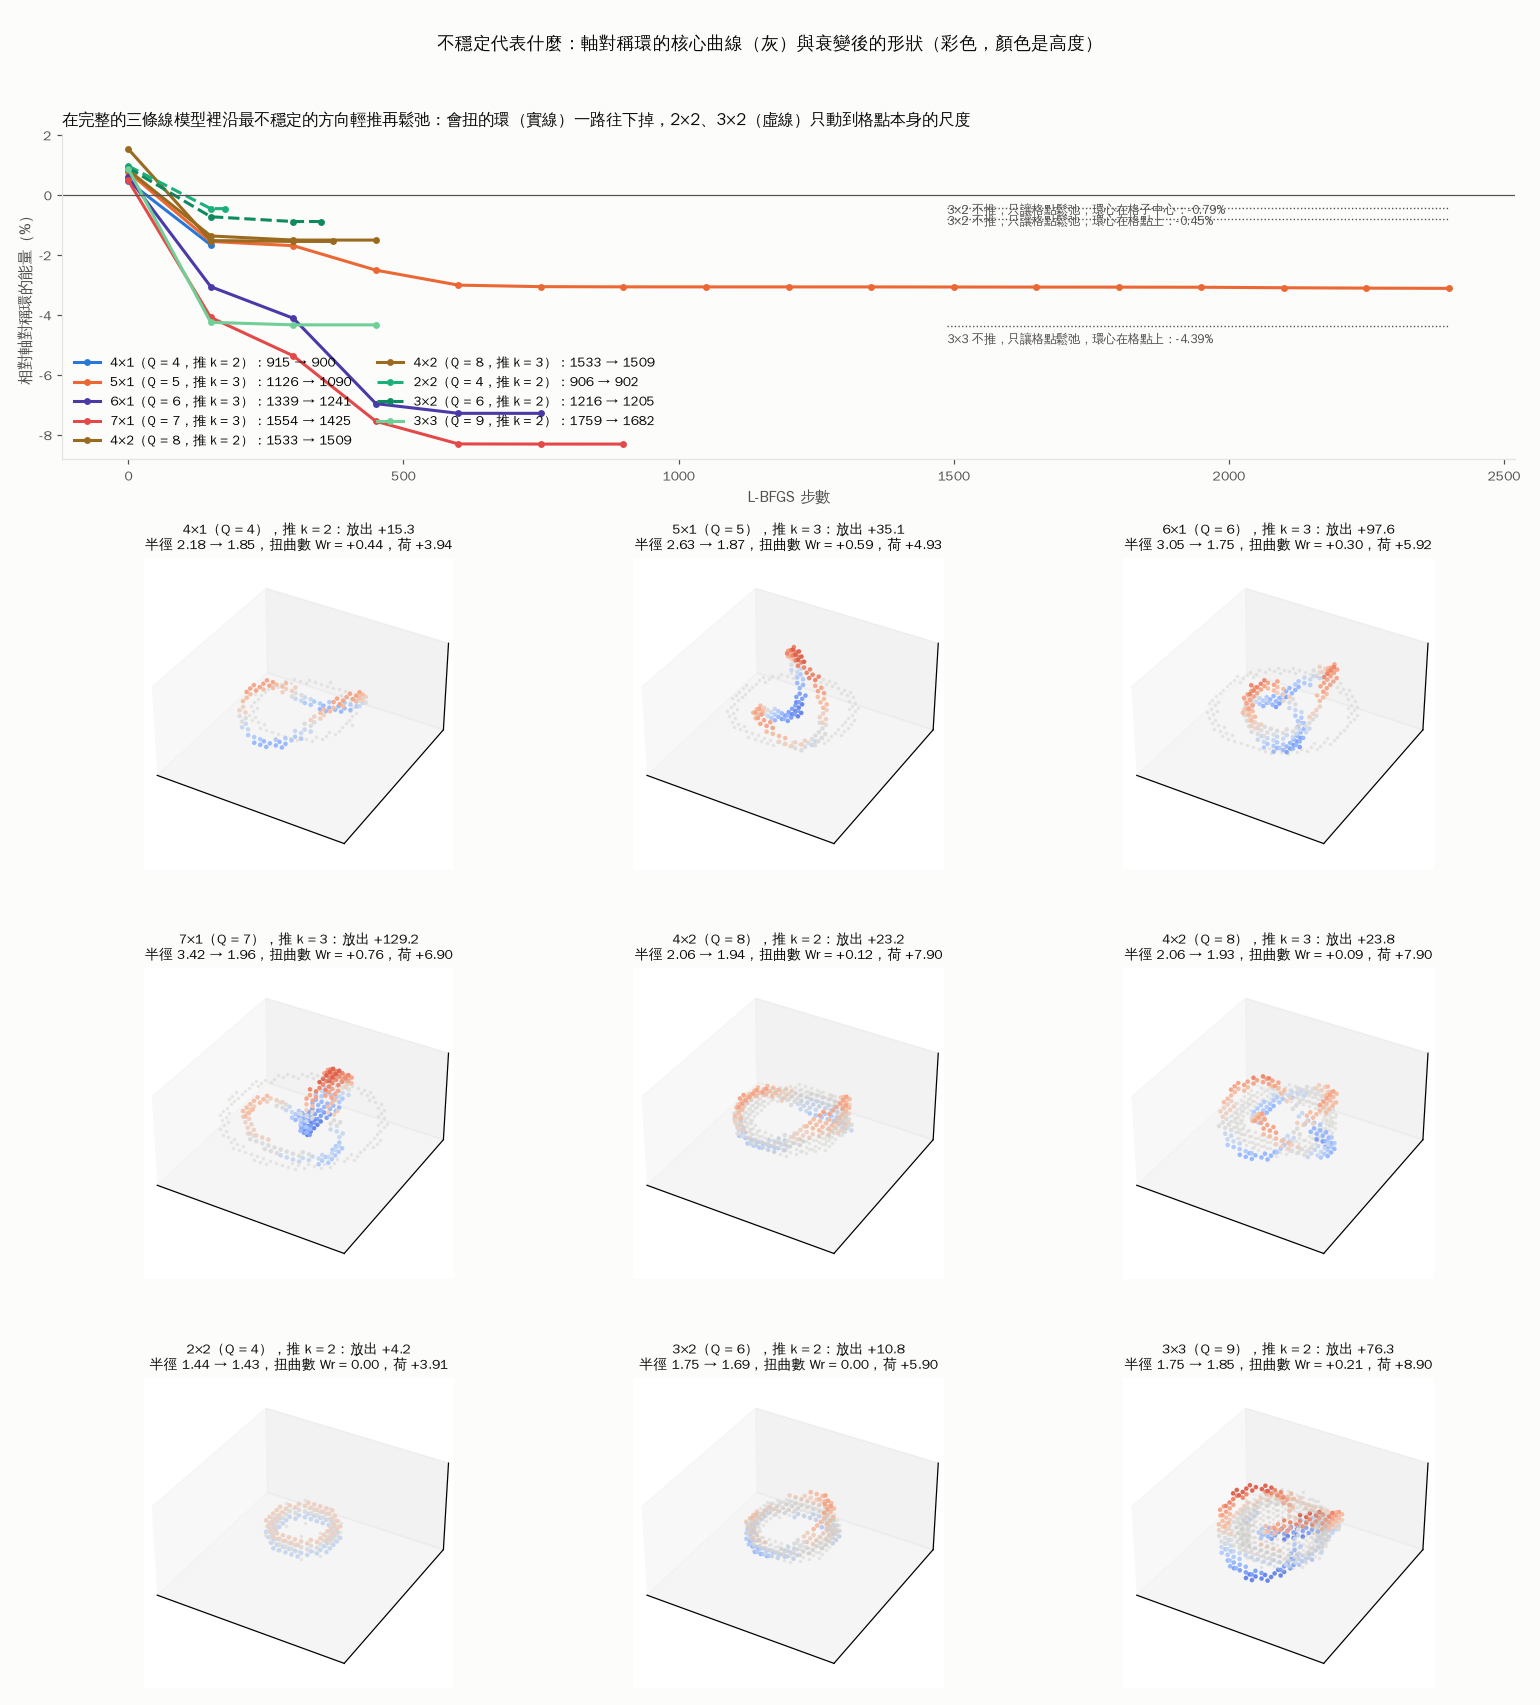
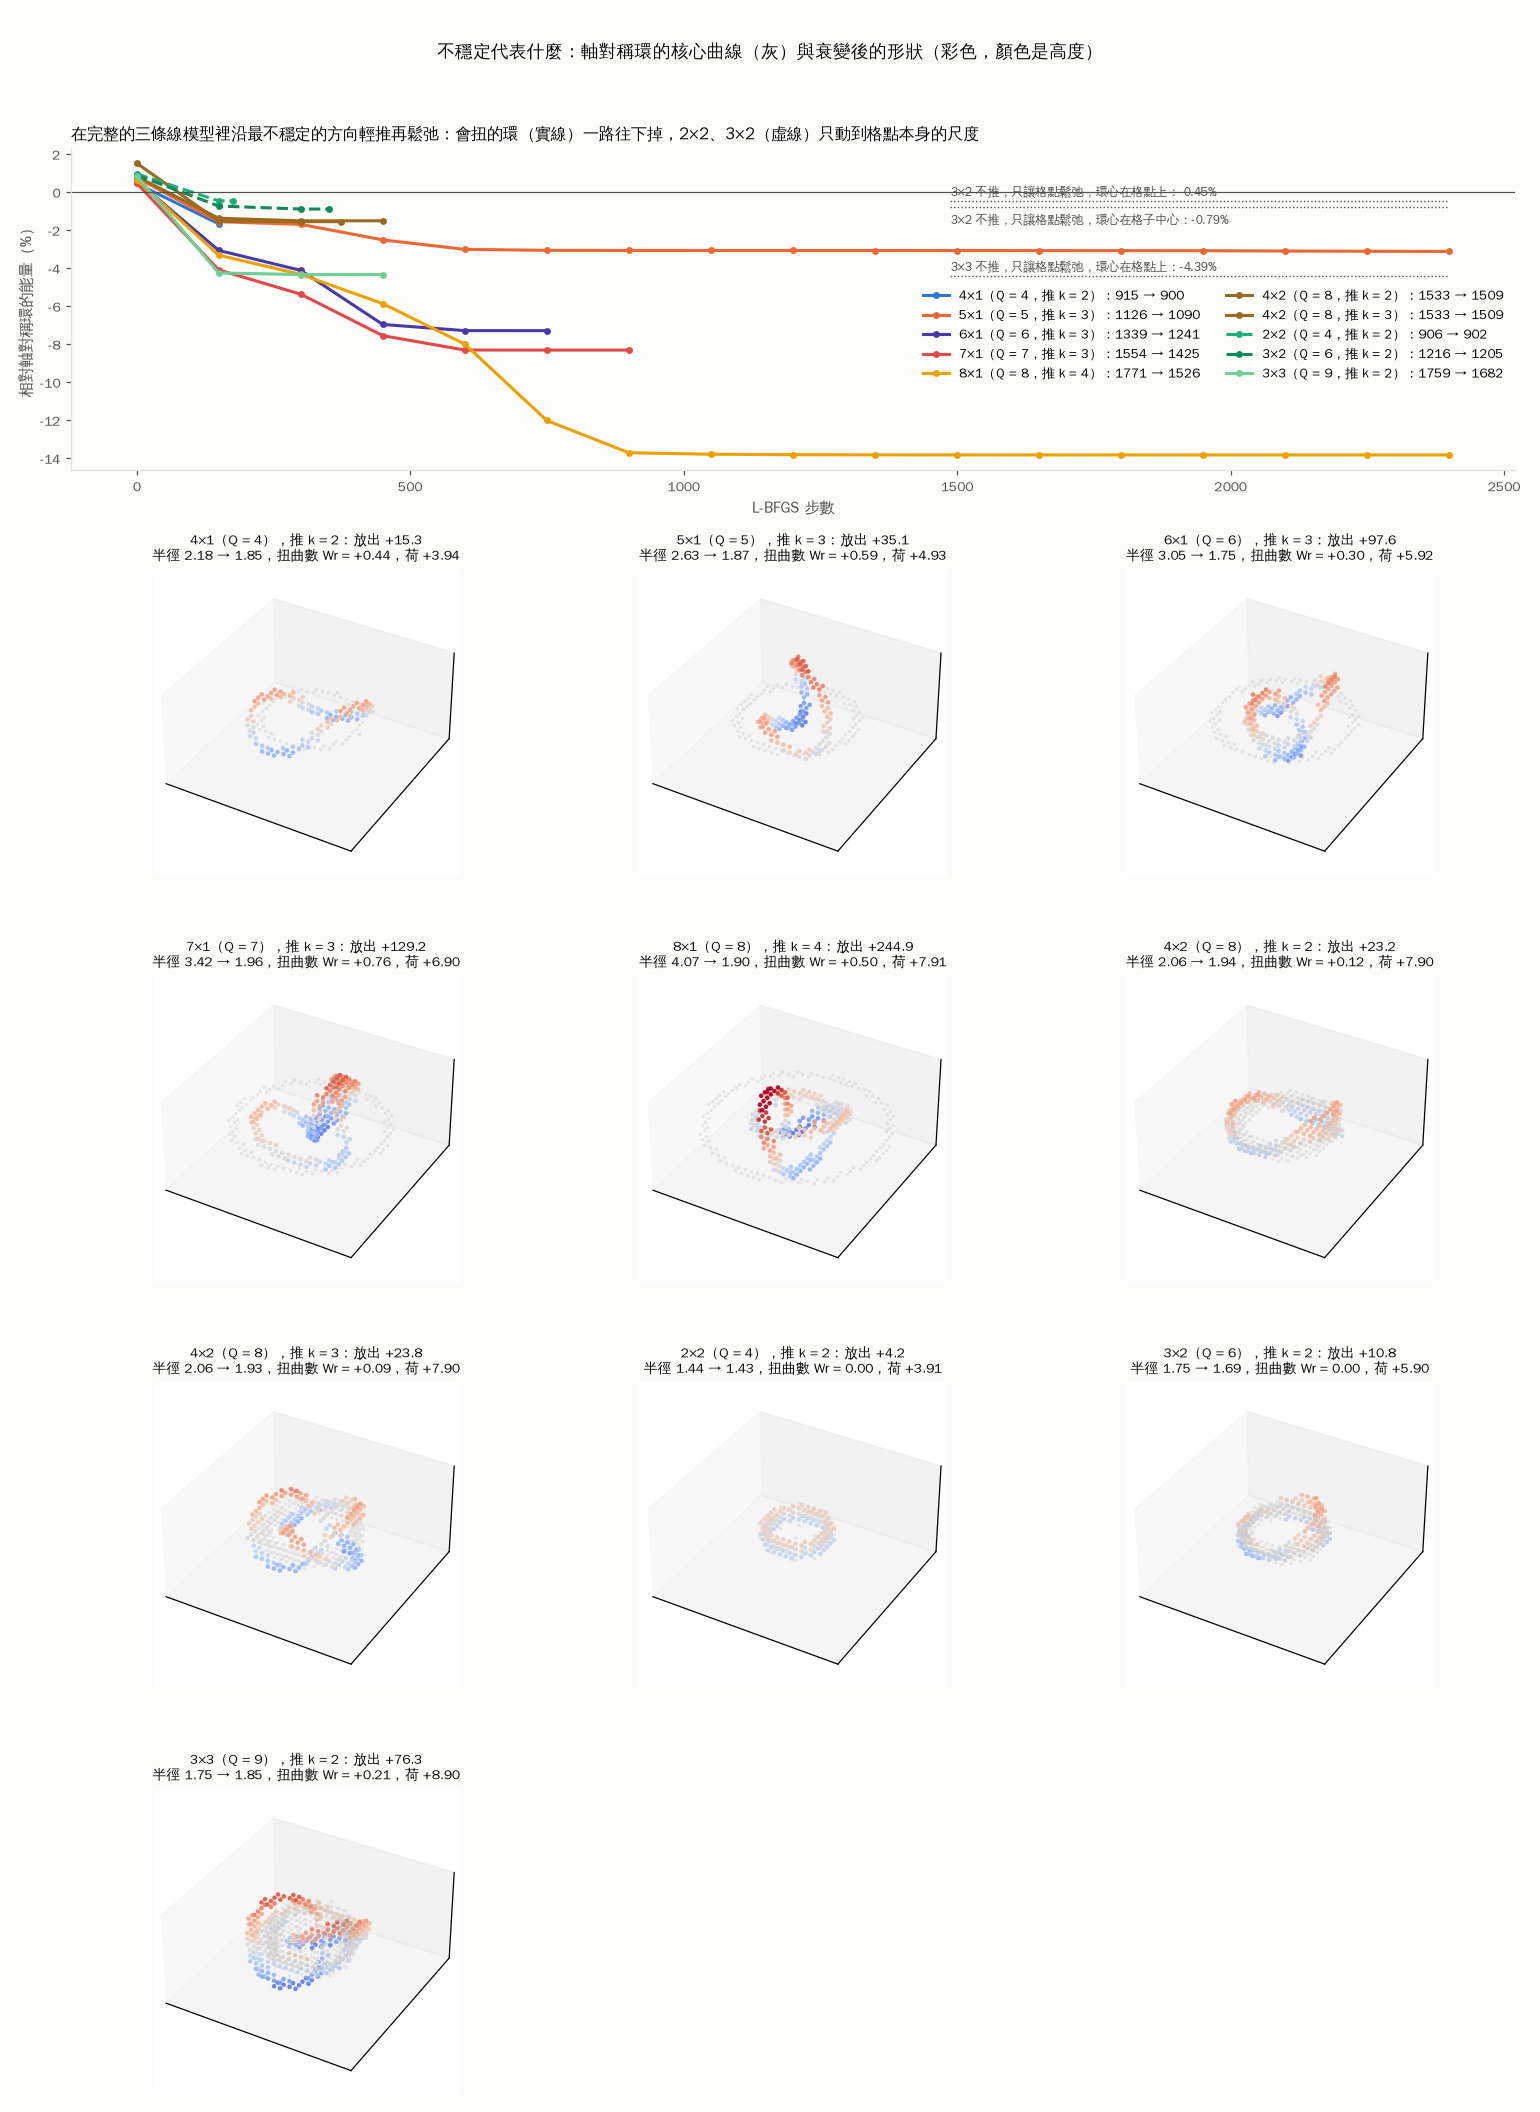
R6 §5.22: 8×1 result (13.8 % released, radius 4.1 → 1.9, writhe +0.5); final figure
All runs of the round are in: every axial ring that decays ends as a chiral
supercoil with the same handedness (writhe +0.09 to +0.76); 2×2 and 3×2
return to the axial shape.  Prime penalty after the 3D relaxations: 3.1 %
(Q = 5) and 4.8 % (Q = 7), upper bounds.

Claude-Session: https://claude.ai/code/session_01CHKvHF3XdzKWxHqo5BZVVX

diff --git a/paper1/charged_mode/plot_prime_decay.py b/paper1/charged_mode/plot_prime_decay.py
@@ -55,16 +55,16 @@ def main(fn="figures/prime_decay_R6.png"):
     # undeformed relaxations, relative to the same ring embedded at a lattice site (as the decays are)
     site = {r["key"]: r["E_axial_lattice"] for r in allruns if not any(r.get("shift", [0]))}
     xmax = max(h[0] for r in runs for h in r["history"])
-    for j, r in enumerate(sorted(refs, key=lambda r: r["E_final"] / site.get(r["key"], r["E_axial_lattice"]))):
+    for j, r in enumerate(sorted(refs, key=lambda r: -r["E_final"] / site.get(r["key"], r["E_axial_lattice"]))):
         y = 100 * (r["E_final"] / site.get(r["key"], r["E_axial_lattice"]) - 1)
         ax.plot([0.62 * xmax, xmax], [y, y], color=INK2, lw=0.9, ls=":")
         ax.annotate(f"{r['m']}×{r['n']} 不推，只讓格點鬆弛" + ("，環心在格子中心" if any(r.get("shift", [0])) else "，環心在格點上")
-                    + f"：{y:+.2f}%", (0.62 * xmax, y), xytext=(0, 3 if j % 2 else -11), textcoords="offset points",
+                    + f"：{y:+.2f}%", (0.62 * xmax, y), xytext=(0, -11 if j % 2 else 3), textcoords="offset points",
                     fontsize=8, color=INK2)
     ax.axhline(0, color=INK2, lw=0.8)
     ax.set_xlabel("L-BFGS 步數", color=INK2)
     ax.set_ylabel("相對軸對稱環的能量（%）", color=INK2)
-    ax.legend(frameon=False, fontsize=8.5, loc="lower left", ncol=2)
+    ax.legend(frameon=False, fontsize=8.5, loc="center right", bbox_to_anchor=(1.0, 0.42), ncol=2)
     for s in ("top", "right"):
         ax.spines[s].set_visible(False)
     for s in ("left", "bottom"):

diff --git a/paper1/charged_mode/FLAG_PAIR_R6.md b/paper1/charged_mode/FLAG_PAIR_R6.md
@@ -1214,7 +1214,7 @@ d = 1 時撐住所需的力只剩 0.014（d = 1.5 時是 24），也就是這個
 | 5×1 | 5 | k = 3 | 1125.5 | 1090.4* | 35.1（3.1%） | 2.63 → 1.87 | +0.49 到 +0.59 | 4.93 | 0 |
 | 6×1 | 6 | k = 3 | 1338.6 | 1241.0 | 97.6（7.3%） | 3.05 → 1.75 | +0.30 | 5.92 | 0 |
 | 7×1 | 7 | k = 3 | 1553.8 | 1424.6 | 129.2（8.3%） | 3.42 → 1.96 | +0.76 | 6.90 | 0 |
-| 8×1 | 8 | k = 4 | 1771.2 | ≤ 1526.9* | ≥ 244（≥ 13.8%） | 4.07 → … | … | … | … |
+| 8×1 | 8 | k = 4 | 1771.2 | 1526.2 | 244.9（13.8%） | 4.07 → 1.90 | +0.50 到 +0.57 | 7.91 | 0 |
 | 4×2 | 8 | k = 2 | 1532.5 | 1509.4 | 23.2（1.5%） | 2.06 → 1.94 | +0.11 | 7.91 | 0 |
 | 4×2 | 8 | k = 3 | 1532.5 | 1508.7 | 23.9（1.6%） | 2.06 → 2.02 | +0.09 到 +0.10 | 7.90 | 0 |
 | 3×3 | 9 | k = 2 | 1758.8 | 1682.5 | 76.3（4.3%） | 1.75 → 1.85 | +0.13 到 +0.21 | 8.90 | 0 |
@@ -1224,9 +1224,9 @@ d = 1 時撐住所需的力只剩 0.014（d = 1.5 時是 24），也就是這個
 | 3×2，不推 | 6 | — | 1216.3 | 1210.9 | 5.4（0.45%） | 1.75 → 1.75 | 0.00 | 5.88 | 0 |
 | 3×2，不推，環心在格子中心 | 6 | — | 1215.0 | 1206.7 | 8.3（0.68%） | 1.76 → 1.74 | +0.02 到 +0.04 | 5.91 | 0 |
 
-- \* 5×1 跑滿 2400 步時，能量還以每 150 步約 0.1 的速度往下爬（梯度 1.3 × 10⁻²），所以 1090.4 是上界。它沿 k = 3 推，最後的主要形狀卻是兩瓣的螺旋波（6×1 也一樣）。8×1 還在跑（1950 步時 1526.2）。
+- \* 5×1 跑滿 2400 步時，能量還以每 150 步約 0.1 的速度往下爬（梯度 1.3 × 10⁻²），所以 1090.4 是上界。它沿 k = 3 推，最後的主要形狀卻是兩瓣的螺旋波（6×1 也一樣）。
 - 讀法：
-  - 單方向的環全部一路往下掉，放出 1.7–8.3%（8×1 超過 13%）。
+  - 單方向的環全部一路往下掉，放出 1.7–8.3%，8×1 是 13.8%。
   - 終點都還是一條管子，荷不變，完全沒有漏到第三條線（κ₃ = 2 把那條管道關著，與 §4.2 一致）。
   - 4×2 也往下掉（1.5%），變成同樣有手性的形狀（Wr = +0.11）。§5.21 的 FE Hessian 判為「未定」的 4×2，在三維裡是不穩定的。沿 k = 3 推，它變成三瓣的螺旋波（相位 −91°，Wr = +0.09 到 +0.10），能量 1508.7，和兩瓣的那個只差 0.7（在格點釘扎之內）：同一個荷至少有兩個幾乎等能量的超螺旋。
   - 3×3 也往下掉（4.3%），變成兩瓣的螺旋波（相位 −90°，Wr = +0.13 到 +0.21），三重的核心在一半的方位上分成兩股。這和我事前的預測相反（見下面三）。
@@ -1254,11 +1254,11 @@ d = 1 時撐住所需的力只剩 0.014（d = 1.5 時是 24），也就是這個
      - 單純被壓垮的彎曲（像受壓的圓環）是鏡像對稱的：r 和 z 同相，Wr = 0。
   3. **門檻**（見下）。
 - 結果（`python3 prime_decay.py writhe`；核心曲線取 |U₀₀|² < 0.1，以核心自己的重心為中心，Fourier 展開到 4 階）：
-  - 所有往下掉的環，衰變後的核心都是繞環走的螺旋波。主要諧波的 r 與 z 相位差：4×1、6×1、7×1 的 m = 2 都是 −90°（±2°），5×1 是 −83° 到 −88°；4×2 推 k = 2 的 m = 2 是 −78° 到 −86°，推 k = 3 的 m = 3 是 −91°。
+  - 所有往下掉的環，衰變後的核心都是繞環走的螺旋波。主要諧波的 r 與 z 相位差：4×1、6×1、7×1 的 m = 2 都是 −90°（±2°），5×1 是 −83° 到 −88°，8×1 的 m = 2、3、4 都在 −84° 到 −98°；4×2 推 k = 2 的 m = 2 是 −78° 到 −86°，推 k = 3 的 m = 3 是 −91°。
   - Wr = +0.09 到 +0.76，全部同號（荷全為正）。
   - 不往下掉的 2×2、3×2：|Wr| ≤ 0.04。
   - 程式的檢查：平面圓 Wr = 0；同相的四瓣起伏 Wr = 0；r + iz ∝ e^{4iφ} 的螺旋波 Wr = −1.07（它的相位是 +90°，和我們的相反，所以符號也相反）。
-  - 衰變後環縮小（7×1：半徑 3.4 → 2.0；6×1：3.1 → 1.8）。〔詮釋〕扭轉減少後，撐大環的「扭轉壓力」變小，張力把環拉小；這是放出能量的主要來源。
+  - 衰變後環縮小（8×1：半徑 4.1 → 1.9；7×1：3.4 → 2.0；6×1：3.1 → 1.8）。〔詮釋〕扭轉減少後，撐大環的「扭轉壓力」變小，張力把環拉小；這是放出能量的主要來源。
 - **門檻：哪一種扭轉算數？**
   - 計算 4×2 之前，我寫下兩種讀法：
     - 以截面的幾何扭轉 m/n 來算：4×2 是 2，比穩定的 3×1（3）還小，應該穩定。
@@ -1287,7 +1287,7 @@ d = 1 時撐住所需的力只剩 0.014（d = 1.5 時是 24），也就是這個
 | 5 | 5×1：1126.8 | 337.0 | 5×1 超螺旋：1090.4* | 326.1 |
 | 6 | 3×2：1210.8 | 315.8 | 3×2：1205.4（在格點釘扎之內，見 §六） | 314.4 |
 | 7 | 7×1：1553.1 | 360.9 | 7×1 超螺旋：1424.6 | 331.0 |
-| 8 | 4×2：1525.9 | 320.8 | 4×2 超螺旋：1508.7（三瓣；兩瓣 1509.4；8×1：≤ 1526.9*） | 317.2 |
+| 8 | 4×2：1525.9 | 320.8 | 4×2 超螺旋：1508.7（三瓣；兩瓣 1509.4；8×1 超螺旋 1526.2） | 317.2 |
 | 9 | 3×3：1744.6 | 335.7 | 3×3 超螺旋：1681.6（不推，自己扭的；推過的 1682.5） | 323.6 |
 
 | 質數 | 相對 Q ± 1 的代價：軸對稱 | 三維鬆弛後 |
@@ -1313,7 +1313,7 @@ d = 1 時撐住所需的力只剩 0.014（d = 1.5 時是 24），也就是這個
 4. 格點釘扎能約 4（0.35%），所有格點能量的比較都帶著這個大小的誤差。
 5. 「放出的能量」包含格點對嵌入態本身的鬆弛：2×2、3×2 不推時是 0.46%、0.45%。扣掉這部分，4×1 的變形能約 11（1.2%），6×1 約 92（6.8%），7×1 約 122（7.9%），4×2 約 16（1.0%）。
 6. Wr 隨核心的門檻（|U₀₀|² < 0.1 或 0.2）變 ±0.1。「Wr 與扭轉同號」（也就是真的在解開扭轉）是能量上的推論，沒有直接的數值檢查。
-7. Wr 只佔 Q 的 1–12%，半徑卻縮小 6–43%。簡單的棒模型解釋不了這麼大的收縮；核心內部的結構（例如分成幾股互相纏繞）可能也變了，沒有檢查。
+7. Wr 只佔 Q 的 1–12%，半徑卻縮小 6–53%。簡單的棒模型解釋不了這麼大的收縮；核心內部的結構（例如分成幾股互相纏繞）可能也變了，沒有檢查。
 8. JSON 裡 `core_shape` 的 z_spread（我上一則回覆引用過）不可靠：它以原點為中心分方位，環心一偏或有幾個零星的點就會誇大（不推、環心在格子中心的 3×2 也給出 1.5）。本節改用以核心重心為中心的 Fourier 擬合（`core_curve`）。
 9. 單一格距 h = 0.3、盒子 ±6，沒有做格距收斂；8×1 的軸對稱環半徑 4.1，離盒子邊緣只有 2。成長率用 L² 度規，是上界。
 10. 衰變用 L-BFGS，不是真實時間。真實時間的過程（輻射、振盪）要用 §5.9 的時間演化。
